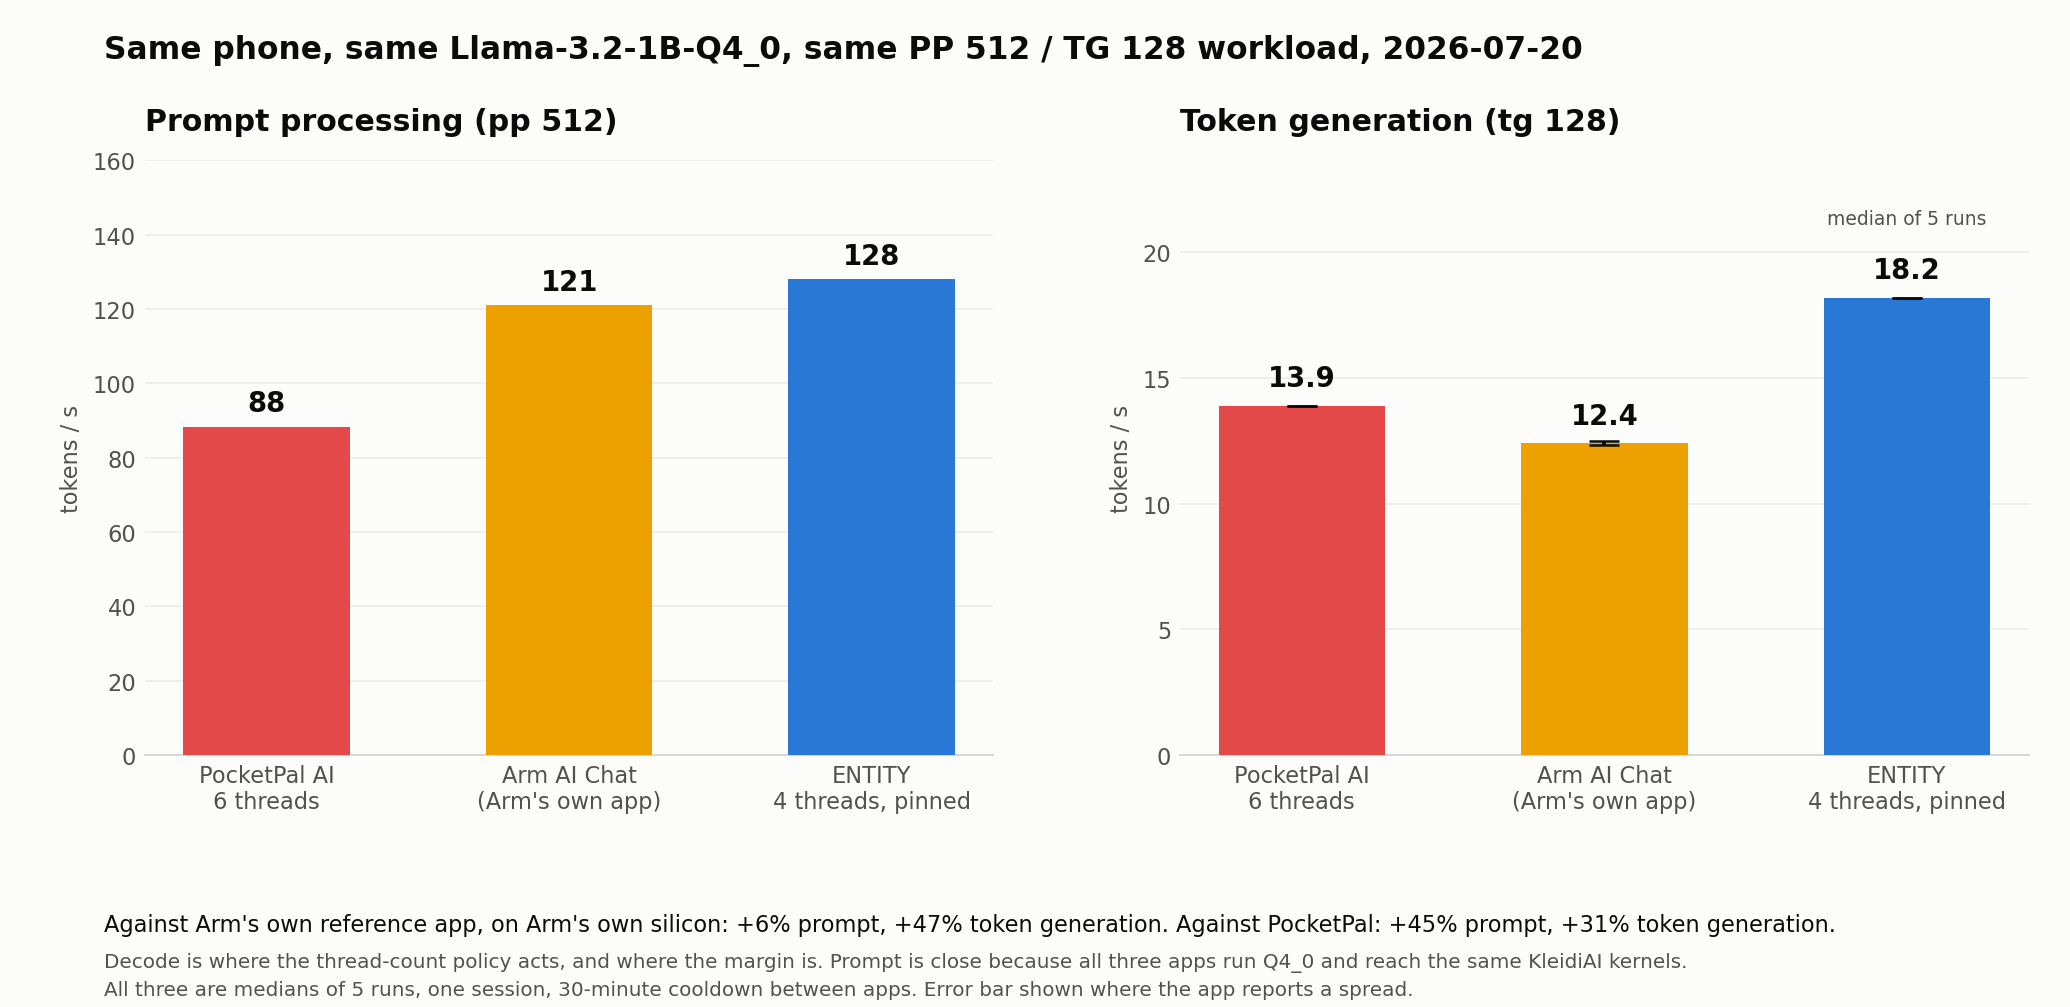
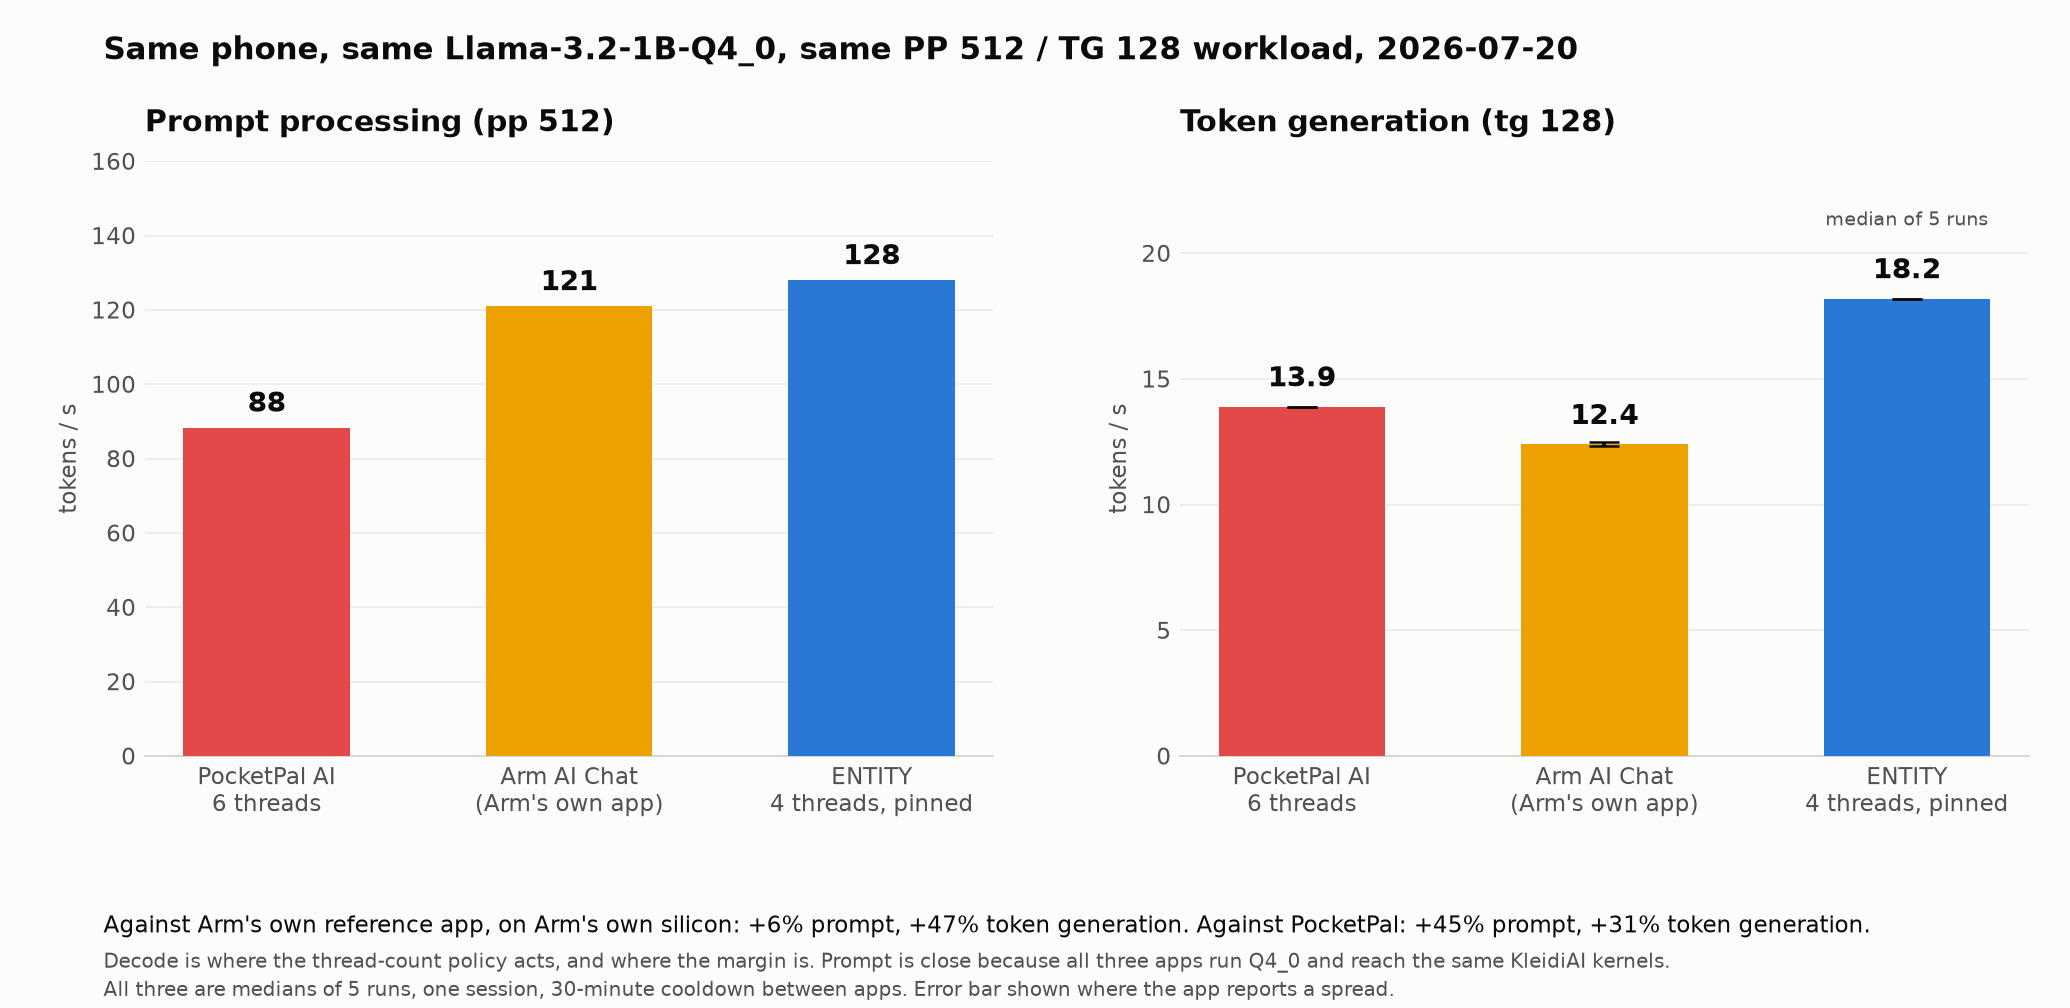
Render every figure for both GitHub themes
The plots were white-canvas PNGs. On a dark-mode README that is a lit slab in the
middle of the page, and it is the first thing a reader sees before any number in it.
Transparency does not fix it either: the axis labels are near-black, so they would
disappear against a dark canvas instead.

matplotlib cannot know the reader's theme, so each figure is now rendered twice and
the README selects with <picture> and prefers-color-scheme. The dark canvas is
GitHub's own #0d1117 with its default foreground, so a figure sits flush against the
page rather than floating in a slightly different shade of dark.

The palette had been copy-pasted into five scripts, which is why the variants could
not be added one file at a time. It now lives in benchmarks/plot_theme.py behind a
PLOT_THEME env var, with the series colours picked to clear 4.5:1 on both canvases so
the two variants stay the same chart rather than diverging into two designs. The light
values are the originals unchanged, and the light PNGs regenerate identically.

diff --git a/benchmarks/plot_theme.py b/benchmarks/plot_theme.py
@@ -1,0 +1,49 @@
+"""Shared plot palette, so every figure can be emitted for both GitHub themes.
+
+A single white-background PNG is a bright slab in a dark-mode README, and a
+transparent one is worse: the dark axis labels vanish against a dark canvas.
+matplotlib cannot ask the reader which theme they are on, so each figure is
+rendered twice and the README chooses with `<picture>` and `prefers-color-scheme`.
+
+The palette was duplicated verbatim across five plot scripts before this file
+existed, which is why the dark variants could not simply be added one at a time.
+
+    python3 benchmarks/plot_four_arm.py                  # light
+    PLOT_THEME=dark python3 benchmarks/plot_four_arm.py  # dark
+
+The light values are the originals, unchanged, so the existing PNGs regenerate
+byte-comparable. The dark values are GitHub's own dark canvas and foreground, so
+the figure sits flush against the README rather than floating in its own shade.
+"""
+
+from __future__ import annotations
+
+import os
+
+DARK = os.environ.get("PLOT_THEME", "light").strip().lower() == "dark"
+
+if DARK:
+    SURFACE = "#0d1117"      # GitHub dark canvas
+    INK = "#e6edf3"          # GitHub dark default foreground
+    INK_MUTED = "#9198a1"
+    GRID = "#30363d"
+else:
+    SURFACE = "#fcfcfb"
+    INK = "#0b0b0b"
+    INK_MUTED = "#52514e"
+    GRID = "#e3e2df"
+
+# Series colours are chosen to clear 4.5:1 against both canvases, so the two
+# variants stay recognisably the same chart rather than becoming two designs.
+BLUE = "#5aa2f0" if DARK else "#2a78d6"
+ORANGE = "#ff8a5c" if DARK else "#eb6834"
+
+MUTED = INK_MUTED  # plot_contributed.py's name for the same role
+
+
+def suffixed(name: str) -> str:
+    """`foo.png` -> `foo-dark.png` when rendering the dark variant."""
+    if not DARK:
+        return name
+    stem, dot, ext = name.rpartition(".")
+    return f"{stem}-dark{dot}{ext}" if dot else f"{name}-dark"

diff --git a/benchmarks/plot_results.py b/benchmarks/plot_results.py
@@ -35,9 +35,7 @@ ARMS = [
     ("auto", "ENTITY Auto\n4 threads, pinned", "#2a78d6"),
 ]
 
-SURFACE = "#fcfcfb"
-INK = "#0b0b0b"
-INK_MUTED = "#52514e"
+from plot_theme import GRID, INK, INK_MUTED, SURFACE, suffixed
 
 
 def num(value):
@@ -129,7 +127,7 @@ def decode_attribution(rows):
     fig.text(0.055, 0.055, "   |   ".join(notes[:half]), fontsize=8, color=INK_MUTED)
     fig.text(0.055, 0.020, "   |   ".join(notes[half:]), fontsize=8, color=INK_MUTED)
     fig.subplots_adjust(left=0.075, right=0.98, top=0.90, bottom=0.24)
-    fig.savefig(OUT / "decode_attribution.png", dpi=180, facecolor=SURFACE)
+    fig.savefig(OUT / suffixed("decode_attribution.png"), dpi=180, facecolor=SURFACE)
     plt.close(fig)
     return "decode_attribution.png"
 
@@ -177,7 +175,7 @@ def kleidiai(rows):
              "memory-bandwidth-bound and does not improve: it tracks bytes-per-weight, not kernel quality.",
              fontsize=8, color=INK_MUTED)
     fig.subplots_adjust(left=0.075, right=0.98, top=0.84, bottom=0.22, wspace=0.25)
-    fig.savefig(OUT / "kleidiai_prompt_ttft.png", dpi=180, facecolor=SURFACE)
+    fig.savefig(OUT / suffixed("kleidiai_prompt_ttft.png"), dpi=180, facecolor=SURFACE)
     plt.close(fig)
     return "kleidiai_prompt_ttft.png"
 
@@ -205,7 +203,7 @@ def energy(rows):
              "so the app hides power rather than reporting a wrong number.",
              fontsize=8, color=INK_MUTED)
     fig.subplots_adjust(left=0.085, right=0.98, top=0.90, bottom=0.20)
-    fig.savefig(OUT / "energy_efficiency.png", dpi=180, facecolor=SURFACE)
+    fig.savefig(OUT / suffixed("energy_efficiency.png"), dpi=180, facecolor=SURFACE)
     plt.close(fig)
     return "energy_efficiency.png"
 

diff --git a/benchmarks/plot_contributed.py b/benchmarks/plot_contributed.py
@@ -42,11 +42,7 @@ OUT = HERE / "plots"
 
 # Validated categorical slots 1 and 2 (see the project's chart palette). Checked with the
 # palette validator: adjacent-pair CVD dE 24.7 protan / 32.7 tritan, normal-vision 33.6.
-BLUE = "#2a78d6"
-ORANGE = "#eb6834"
-INK = "#1a1a19"
-MUTED = "#6b6a66"
-GRID = "#e3e2df"
+from plot_theme import BLUE, GRID, INK, MUTED, ORANGE, SURFACE, suffixed
 
 # Its naive arm is unusable (88.5% RSD); see the module docstring.
 NO_STEP1 = {"Samsung SM-S911B"}
@@ -96,7 +92,7 @@ def main():
     fig, (ax1, ax2) = plt.subplots(
         1, 2, figsize=(13.5, 5.4), gridspec_kw={"width_ratios": [1, 1.25]}
     )
-    fig.patch.set_facecolor("white")
+    fig.patch.set_facecolor(SURFACE)
 
     # ---- panel 1: thread count. one series, so no legend - the title names it. --------
     y = range(len(order1))
@@ -179,8 +175,8 @@ def main():
     )
 
     fig.tight_layout(rect=(0, 0.115, 1, 0.945))
-    dst = OUT / "contributed_multidevice.png"
-    fig.savefig(dst, dpi=200, facecolor="white")
+    dst = OUT / suffixed("contributed_multidevice.png")
+    fig.savefig(dst, dpi=200, facecolor=SURFACE)
     print(f"wrote {dst}")
 
 

diff --git a/benchmarks/plot_competitors.py b/benchmarks/plot_competitors.py
@@ -30,9 +30,7 @@ import matplotlib.pyplot as plt
 
 OUT = Path(__file__).parent / "competitor-comparison"
 
-SURFACE = "#fcfcfb"
-INK = "#0b0b0b"
-INK_MUTED = "#52514e"
+from plot_theme import GRID, INK, INK_MUTED, SURFACE, suffixed
 
 # Validated categorical slots: red / yellow / blue.
 # (label, colour, prompt tok/s, decode tok/s, decode sd if the app reports one)
@@ -114,7 +112,7 @@ def main():
              "where the app reports a spread.",
              fontsize=8, color=INK_MUTED)
     fig.subplots_adjust(left=0.07, right=0.98, top=0.84, bottom=0.25, wspace=0.22)
-    fig.savefig(OUT / "three_app_comparison.png", dpi=180, facecolor=SURFACE)
+    fig.savefig(OUT / suffixed("three_app_comparison.png"), dpi=180, facecolor=SURFACE)
     plt.close(fig)
     print(f"wrote {OUT / 'three_app_comparison.png'}")
 

diff --git a/benchmarks/plot_four_arm.py b/benchmarks/plot_four_arm.py
@@ -41,9 +41,7 @@ ARMS = [
     ("efficiency", "Efficiency  (4 thr, LITTLE-pinned)", "#2f9e6f"),
 ]
 
-SURFACE = "#fcfcfb"
-INK = "#0b0b0b"
-INK_MUTED = "#52514e"
+from plot_theme import GRID, INK, INK_MUTED, SURFACE, suffixed
 
 
 def load(path):
@@ -143,7 +141,7 @@ def main():
              "The efficiency arm (LITTLE-cluster pinning) is new in v1.1.0.",
              fontsize=8, color=INK_MUTED, ha="left")
     fig.tight_layout(rect=(0, 0.025, 1, 0.90))
-    fig.savefig(OUT / "four_arm_decode_20260718.png", dpi=150, facecolor=SURFACE)
+    fig.savefig(OUT / suffixed("four_arm_decode_20260718.png"), dpi=150, facecolor=SURFACE)
     print("wrote", OUT / "four_arm_decode_20260718.png")
 
 

diff --git a/benchmarks/plot_energy.py b/benchmarks/plot_energy.py
@@ -30,9 +30,7 @@ import matplotlib
 matplotlib.use("Agg")
 import matplotlib.pyplot as plt
 
-SURFACE = "#fcfcfb"
-INK = "#0b0b0b"
-INK_MUTED = "#52514e"
+from plot_theme import GRID, INK, INK_MUTED, SURFACE, suffixed
 
 ARMS = [
     ("naive", "Naive\n8 threads, all cores", "#e34948"),
@@ -170,7 +168,7 @@ def main():
              fontsize=8, color=INK_MUTED)
     fig.subplots_adjust(left=0.06, right=0.98, top=0.85, bottom=0.22, wspace=0.22)
 
-    out = args.output_dir / "energy_per_task.png"
+    out = args.output_dir / suffixed("energy_per_task.png")
     fig.savefig(out, dpi=180, facecolor=SURFACE)
     plt.close(fig)
     print(f"wrote {out}")

diff --git a/README.md b/README.md
@@ -201,7 +201,10 @@ The current benchmark of record is the pair of four arm, five runs per arm ENTIT
 | CMF Phone 1, Dimensity 7300 | 10.8 ± 1.3 | 15.0 ± 0.5 | **18.1 ± 0.4** | 15.0 ± 0.3 | **+39%** | **+21%** |
 | OPPO CPH2729, Snapdragon 6 Gen 4 | 9.7 ± 0.5 | 17.4 ± 0.3 | **17.5 ± 0.2** | 14.3 ± 0.1 | **+80%** | +1% |
 
-![Four-arm decode and efficiency](benchmarks/plots/four_arm_decode_20260718.png)
+<picture>
+  <source media="(prefers-color-scheme: dark)" srcset="benchmarks/plots/four_arm_decode_20260718-dark.png">
+  <img alt="Four-arm decode and efficiency" src="benchmarks/plots/four_arm_decode_20260718.png">
+</picture>
 
 The thread count is the universal earner. What pinning adds depends on the SoC: decode on the Dimensity (+21%, the pinned and unpinned distributions do not overlap), power on the Snapdragon (2.52 to 1.78 W median, tokens per watt 6.80 to 9.85). And on both phones the LITTLE pinned arm loses on speed and on tok/W - the efficiency cores are not an efficiency win for LLM decode, which is why the affinity policy is measured per device instead of assumed.
 
@@ -216,7 +219,10 @@ The July 2026 three arm record that first split the attribution, CMF Phone 1:
 | Llama 3.2 3B Q4_0, 1 run | 3.1 | 6.0 | 6.8 | **+94%** | +13% |
 | Llama 3.2 3B Q4_0, 1 run | 3.5 | 6.3 | 6.3 | **+81%** | **+0%** |
 
-![Decode attribution](benchmarks/plots/decode_attribution.png)
+<picture>
+  <source media="(prefers-color-scheme: dark)" srcset="benchmarks/plots/decode_attribution-dark.png">
+  <img alt="Decode attribution" src="benchmarks/plots/decode_attribution.png">
+</picture>
 
 Eight threads on a 4+4 big.LITTLE phone let the Cortex A55s gate every decode step. Using four threads removes that. In this July record the pinning added nothing measurable - identical 15.9 tok/s medians pinned and unpinned in the repeat set, with the pinned arm's spread collapsing from 1.58 to 0.09, so pinning bought repeatability rather than speed. The 2026-07-18 five run exports above are the current statement - +21% on this same phone, +1% on the OPPO - and the difference between the two records is kept as an open question in [the benchmark record](benchmarks/BENCHMARKS.md). What every set agrees on: the v2.0.0 claim that +121% came from big core affinity was wrong, and ENTITY's own ablation is what proved it.
 
@@ -234,7 +240,10 @@ Same phone, same 512 token prompt, same four thread unpinned config. Only the qu
 
 This isolates the **quantization**, not KleidiAI specifically: moving to Q4_0 switches on both KleidiAI's kernels and ggml's Arm repack path at once, and the split between them has not been measured on this phone. Independent measurements suggest the KleidiAI flag adds little at Q4_0 (its clear win is at Q8_0). See [what this does not attribute](docs/KLEIDIAI-QUANTS.md#what-this-measures-and-what-it-does-not-attribute).
 
-![KleidiAI](benchmarks/plots/kleidiai_prompt_ttft.png)
+<picture>
+  <source media="(prefers-color-scheme: dark)" srcset="benchmarks/plots/kleidiai_prompt_ttft-dark.png">
+  <img alt="KleidiAI" src="benchmarks/plots/kleidiai_prompt_ttft.png">
+</picture>
 
 Prompt evaluation is a compute bound GEMM, which is what KleidiAI accelerates. Decode is memory bandwidth bound and tracks bytes per weight rather than kernel quality, so it does not improve: Q4_0 is about 6% more bytes and lands slightly slower. Q4_0 is also a quality tradeoff, and the cost is now measured rather than asserted: **+5.6% perplexity against Q4_K_M** on Llama-3.2-1B (15.6159 vs 14.7346, wikitext-2 test, 200 chunks), for 4.5% fewer bytes and a prompt path Q4_K_M cannot reach at all. ENTITY recommends rather than switching silently, and the model card now reports both sides. Full table: [`docs/QUANTIZATION-QUALITY.md`](docs/QUANTIZATION-QUALITY.md).
 
@@ -264,7 +273,10 @@ Same phone, same `Llama-3.2-1B-Instruct-Q4_0`, same PP 512 / TG 128 workload, ea
 | Arm AI Chat (Arm's own app) | 121 tok per s | 12.4 tok per s | not reported |
 | **ENTITY** | **128 tok per s** | **18.2 tok per s** | 4, pinned |
 
-![Competitor comparison](benchmarks/competitor-comparison/three_app_comparison.png)
+<picture>
+  <source media="(prefers-color-scheme: dark)" srcset="benchmarks/competitor-comparison/three_app_comparison-dark.png">
+  <img alt="Competitor comparison" src="benchmarks/competitor-comparison/three_app_comparison.png">
+</picture>
 
 Against Arm's own reference app, on Arm's own silicon: 6% on prompt and **47% on token generation**. Against PocketPal: 45% and 31%.
 

diff --git a/app/entity.bench.android/README.md b/app/entity.bench.android/README.md
@@ -76,7 +76,10 @@ The result page prints that split as its headline. The current benchmark of reco
 | CMF Phone 1, Dimensity 7300 | 10.8 ± 1.3 | 15.0 ± 0.5 | **18.1 ± 0.4** | 15.0 ± 0.3 | **+39%** | **+21%** |
 | OPPO CPH2729, Snapdragon 6 Gen 4 | 9.7 ± 0.5 | 17.4 ± 0.3 | **17.5 ± 0.2** | 14.3 ± 0.1 | **+80%** | +1% |
 
-![Four-arm decode and efficiency](../../benchmarks/plots/four_arm_decode_20260718.png)
+<picture>
+  <source media="(prefers-color-scheme: dark)" srcset="../../benchmarks/plots/four_arm_decode_20260718-dark.png">
+  <img alt="Four-arm decode and efficiency" src="../../benchmarks/plots/four_arm_decode_20260718.png">
+</picture>
 
 The thread count earns the multiplier on both devices. What pinning adds is device dependent: decode on the Dimensity (+21%, non overlapping distributions), power on the Snapdragon (2.52 to 1.78 W median, tok/W 6.80 to 9.85). This same ablation, in its earlier three arm form, is what disproved ENTITY's own "+121% from big core affinity" claim - the July sets read pinning at ~0% and are retained in [the benchmark record](../../benchmarks/BENCHMARKS.md).
 
